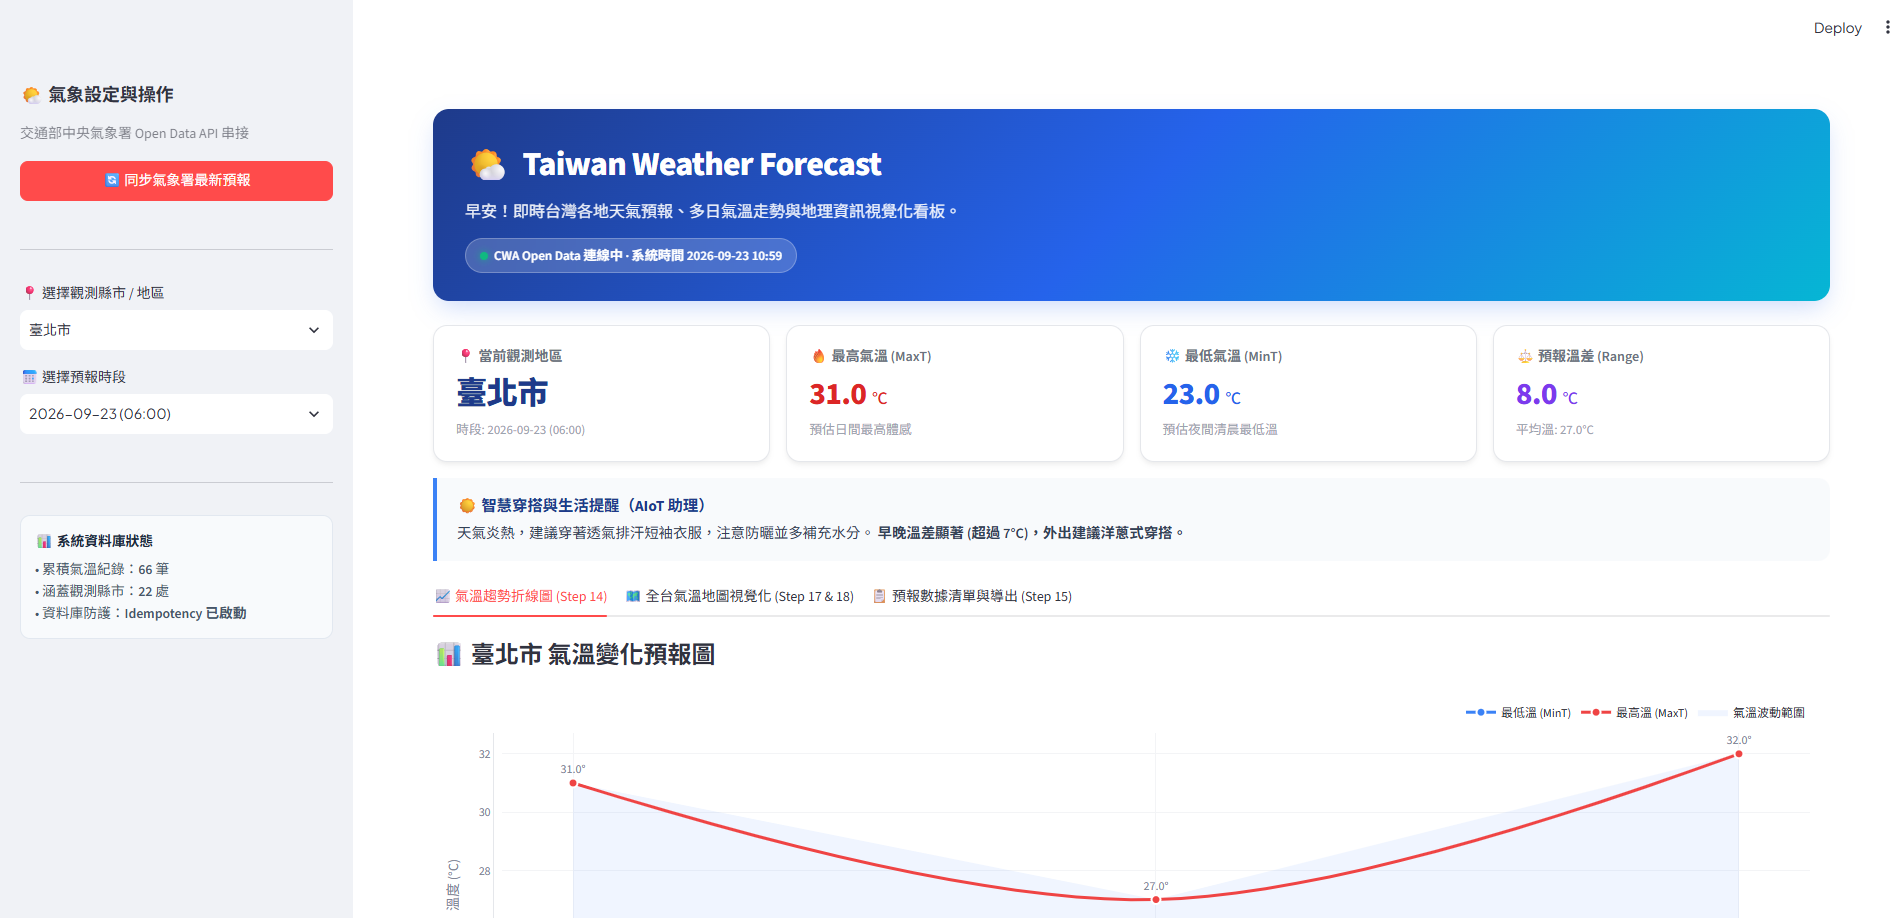
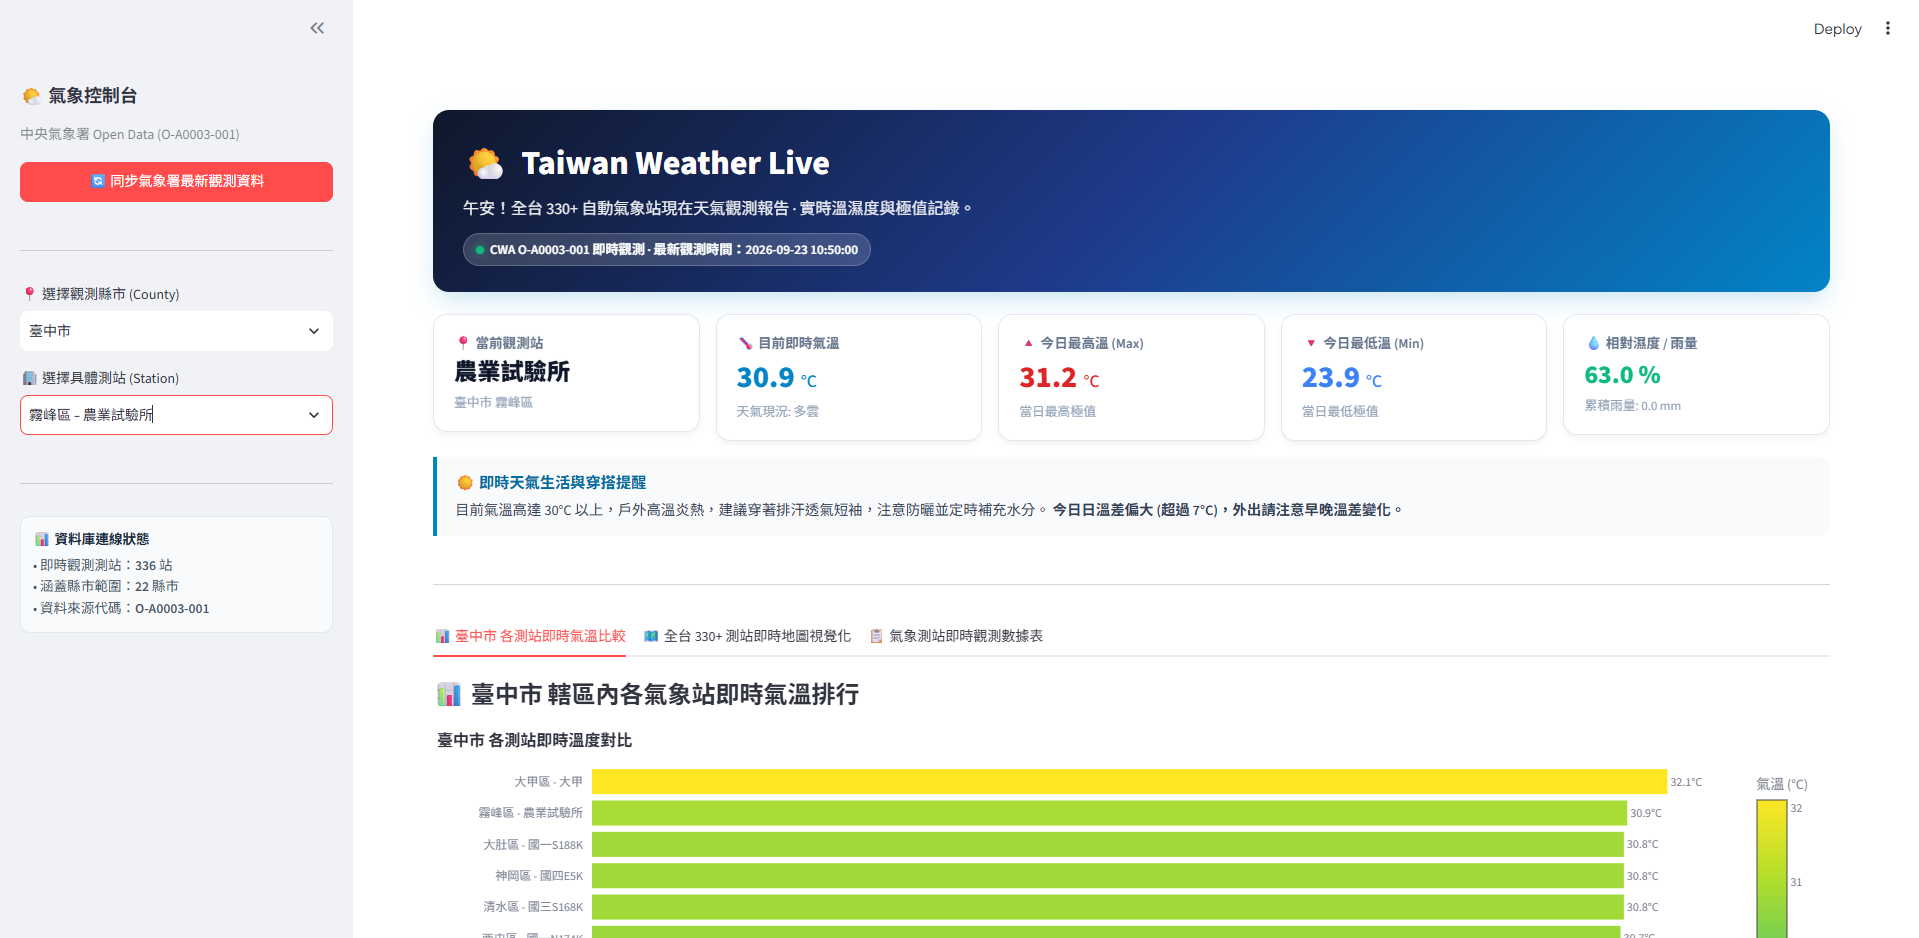
docs: add dashboard screenshot assets/image.png into README.md

diff --git a/README.md b/README.md
@@ -7,6 +7,9 @@
 ## 📌 專案簡介 (Overview)
 本專案為 AIoT 課程 Lesson 3 作業實作，以中央氣象署 (CWA) Open Data 為核心，透過 Python 擷取氣象資料、經由 SQLite 儲存與處理，最終利用 Streamlit 與 Folium 建構出互動式的台灣天氣預報儀表板與視覺化地圖。
 
+## 📸 應用程式畫面截圖 (Dashboard Preview)
+![Taiwan Weather Live 儀表板截圖](assets/image.png)
+
 ---
 
 ## 🛠 技術架構 (Technology Stack)
@@ -125,7 +128,8 @@ flowchart TD
 #### 🔹 第四階段：地圖視覺化與程式優化 (Steps 17 ~ 20)
 17. **進階：台灣地圖視覺化**：結合 `Folium` 與 `Streamlit`，利用溫度區間顏色呈現台灣氣溫地圖。
 18. **選擇日期顯示地圖**：提供日期選擇功能，於互動式地圖中顯示特定日期的區域溫差（如中部地區 Min: 20°C, Max: 30°C）。
-19. **完整成果展示**：整合地圖與圖表，完成 Taiwan Weather Dashboard。
+19. **完整成果展示**：整合地圖與圖表，完成 Taiwan Weather Dashboard 即時觀測儀表板。
+    ![Taiwan Weather Dashboard 成果展示](assets/image.png)
 20. **程式碼品質與優化**：
     - 程式碼結構清晰化
     - 健全的錯誤處理機制 (Error Handling)
